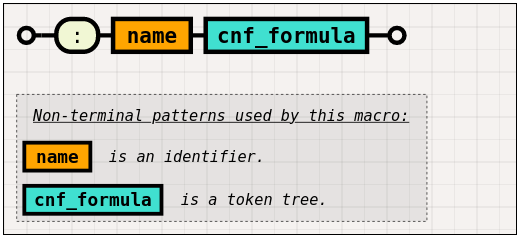
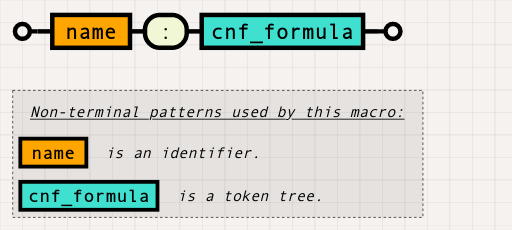
Fix issue in constraint diagram

diff --git a/include/vara/Feature/FeatureModelParser.h b/include/vara/Feature/FeatureModelParser.h
@@ -140,7 +140,7 @@ private:
 /// or alternatively:
 /// \code{unparsed}
 /// macro_rules! sxfm_constraints {
-///     (:$name:ident $cnf_formula:tt) => {...};
+///     ($name:ident : $cnf_formula:tt) => {...};
 /// }
 /// \endcode
 ///
